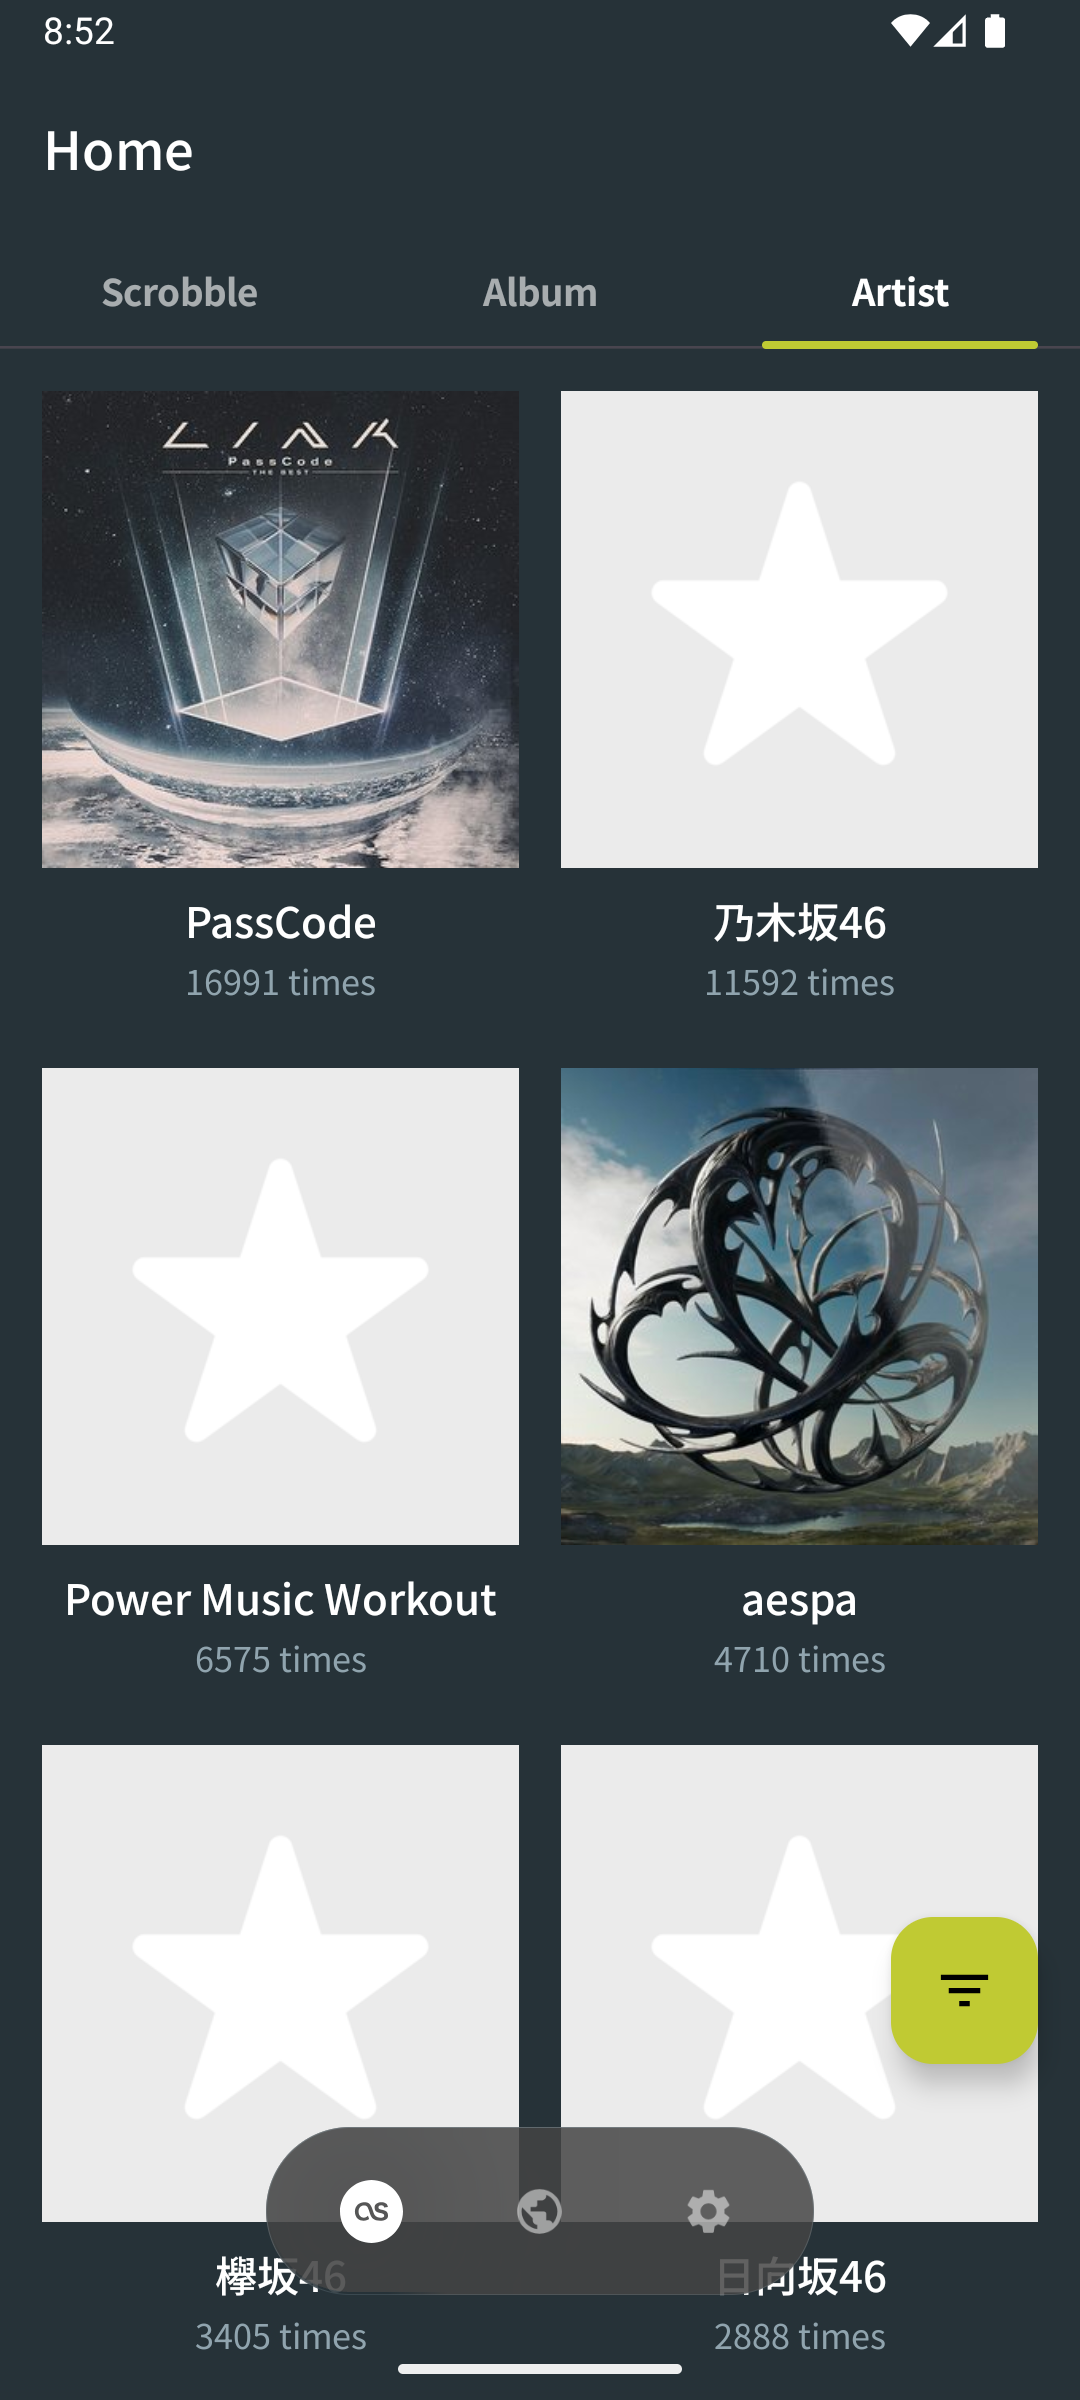
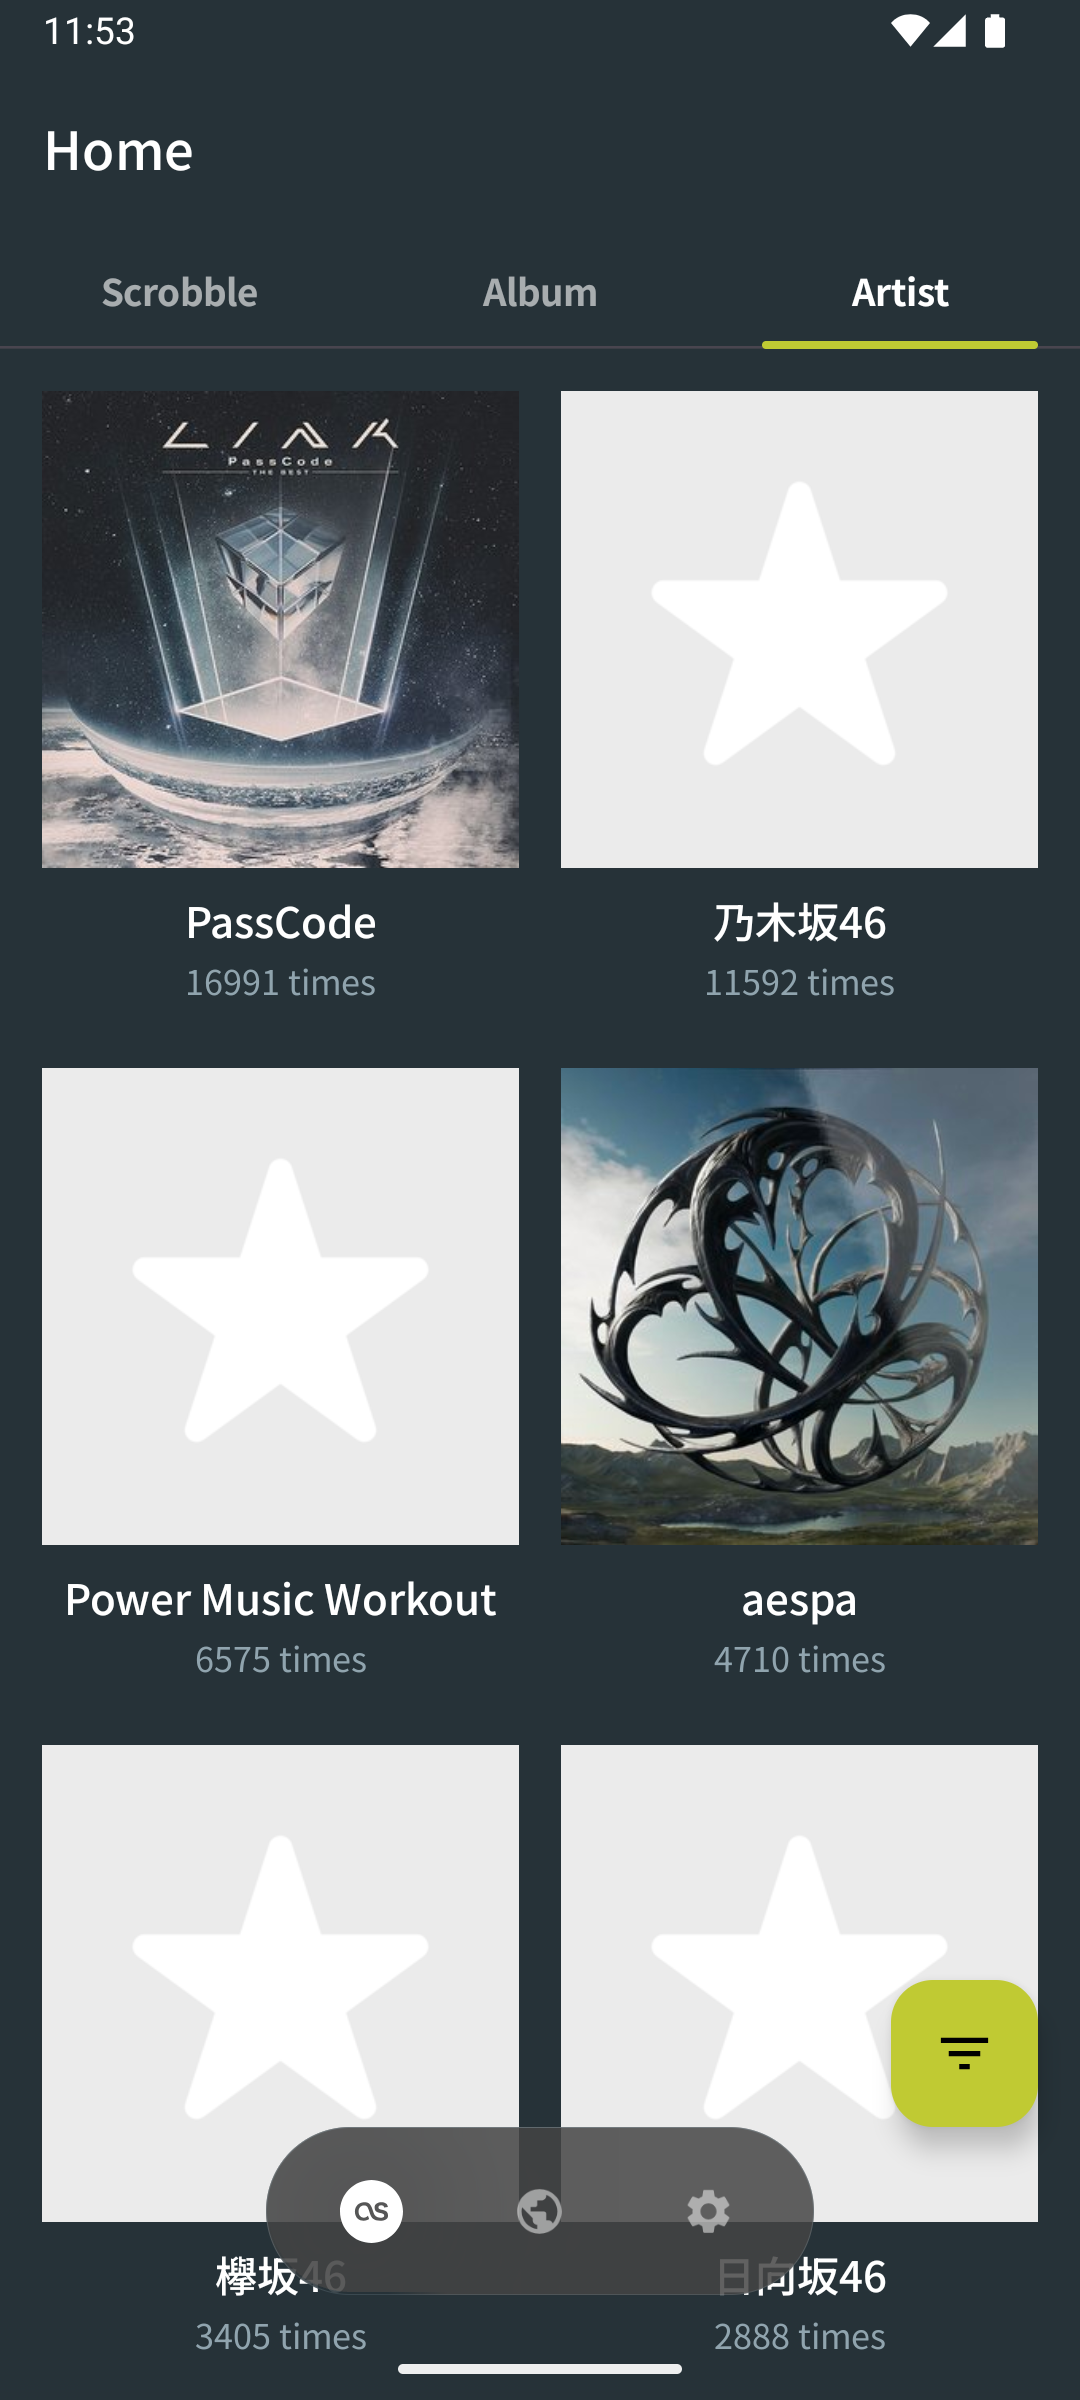
Adjust FAB position with new navigation bar

Changed region(s): [[0.825, 0.7812, 0.9778, 0.9062], [0.0306, 0.0, 0.1222, 0.0312]]

diff --git a/feature/artist/src/main/java/com/mataku/scrobscrob/artist/ui/screen/TopArtistsScreen.kt b/feature/artist/src/main/java/com/mataku/scrobscrob/artist/ui/screen/TopArtistsScreen.kt
@@ -91,7 +91,7 @@ fun TopArtistsScreen(
         },
         modifier = modifier
           .padding(
-            bottom = 152.dp + with(density) {
+            bottom = 128.dp + with(density) {
               topAppBarHeightPixel.toDp()
             }
           )

diff --git a/feature/album/src/main/java/com/mataku/scrobscrob/album/ui/screen/TopAlbumsScreen.kt b/feature/album/src/main/java/com/mataku/scrobscrob/album/ui/screen/TopAlbumsScreen.kt
@@ -90,7 +90,7 @@ fun TopAlbumsScreen(
         },
         modifier = modifier
           .padding(
-            bottom = 152.dp + with(density) {
+            bottom = 128.dp + with(density) {
               topAppBarHeightPixel.toDp()
             }
           )
